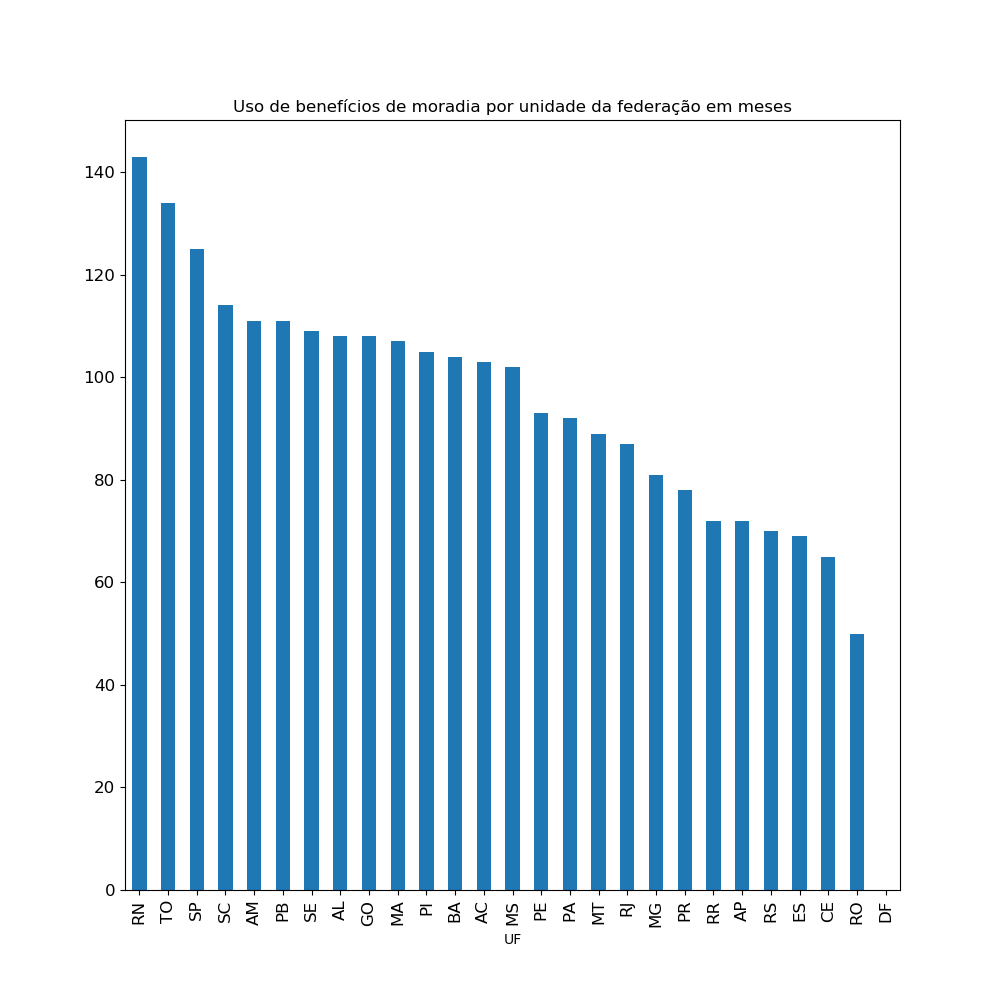
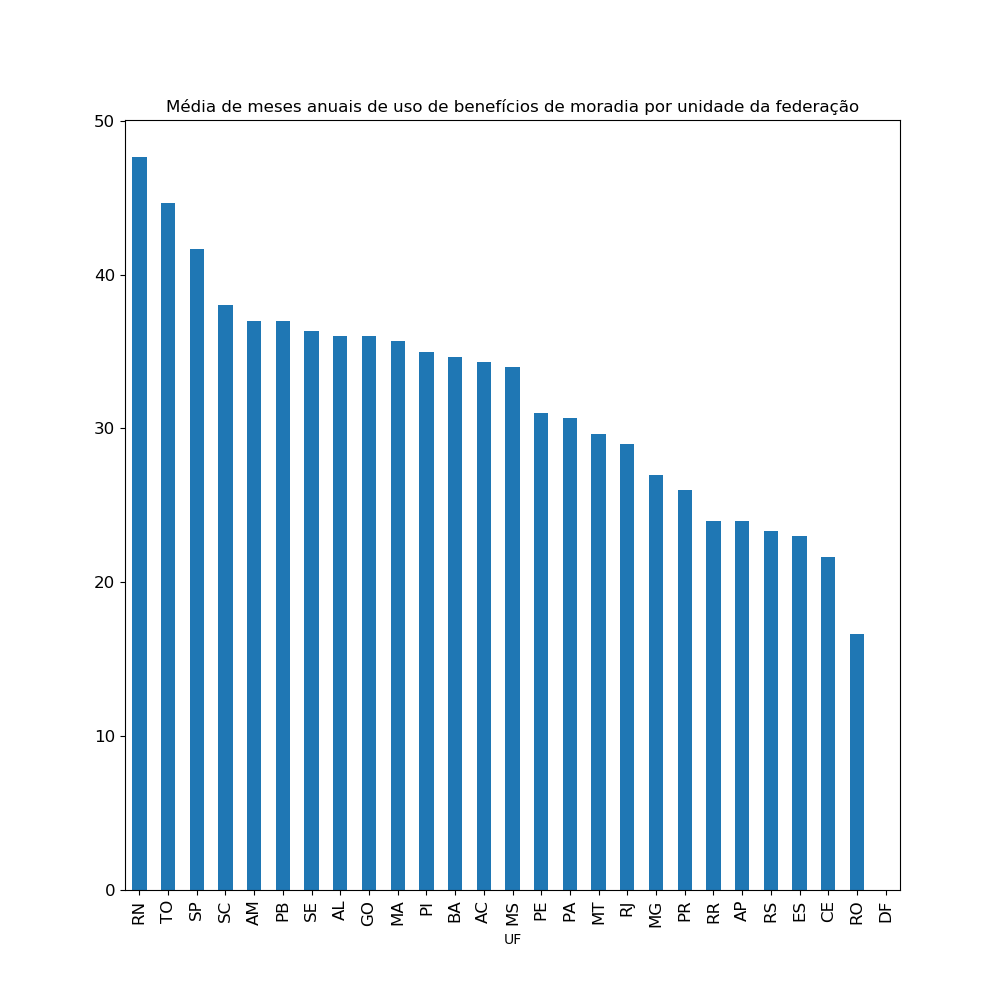
Benefício moradia calculado por média anual

diff --git a/leArquivos.py b/leArquivos.py
@@ -93,10 +93,10 @@ gTop10 = top10[['gastos', 'gastos2015', 'gastos2016', 'gastos2017']].plot(
     kind='bar', rot=20, title='10 maiores gastadores', x=top10['nome'], figsize=(15, 8), legend=True, fontsize=12, colormap='Paired')
 gTop10.get_figure().savefig('imagensV2/10maiores.png')
 
-beneficioMoradia = gastoEstados['Auxílio-Moradia-2015'] + gastoEstados['Auxílio-Moradia-2016'] + gastoEstados['Auxílio-Moradia-2017'] + \
+beneficioMoradia = (gastoEstados['Auxílio-Moradia-2015'] + gastoEstados['Auxílio-Moradia-2016'] + gastoEstados['Auxílio-Moradia-2017'] + \
     gastoEstados['Imóvel Funcional-2015'] + \
     gastoEstados['Imóvel Funcional-2016'] + \
-    gastoEstados['Imóvel Funcional-2017']
+    gastoEstados['Imóvel Funcional-2017']) / len(anos)
 gBeneficio = beneficioMoradia.sort_values(ascending=False).plot(
-    kind='bar', title='Uso de benefícios de moradia por unidade da federação em meses', figsize=(10, 10), fontsize=(12), legend=False)
+    kind='bar', title='Média de meses anuais de uso de benefícios de moradia por unidade da federação', figsize=(10, 10), fontsize=(12), legend=False)
 gBeneficio.get_figure().savefig('imagensV2/moradiaEstado.png')
